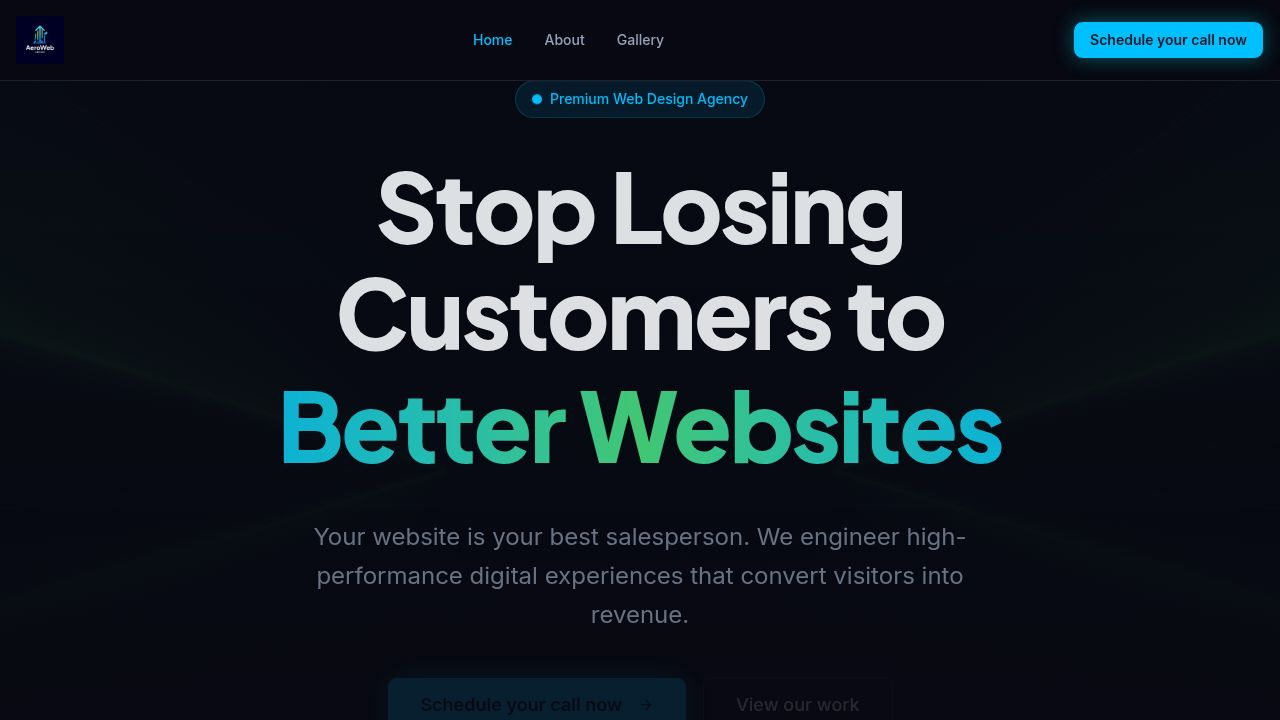
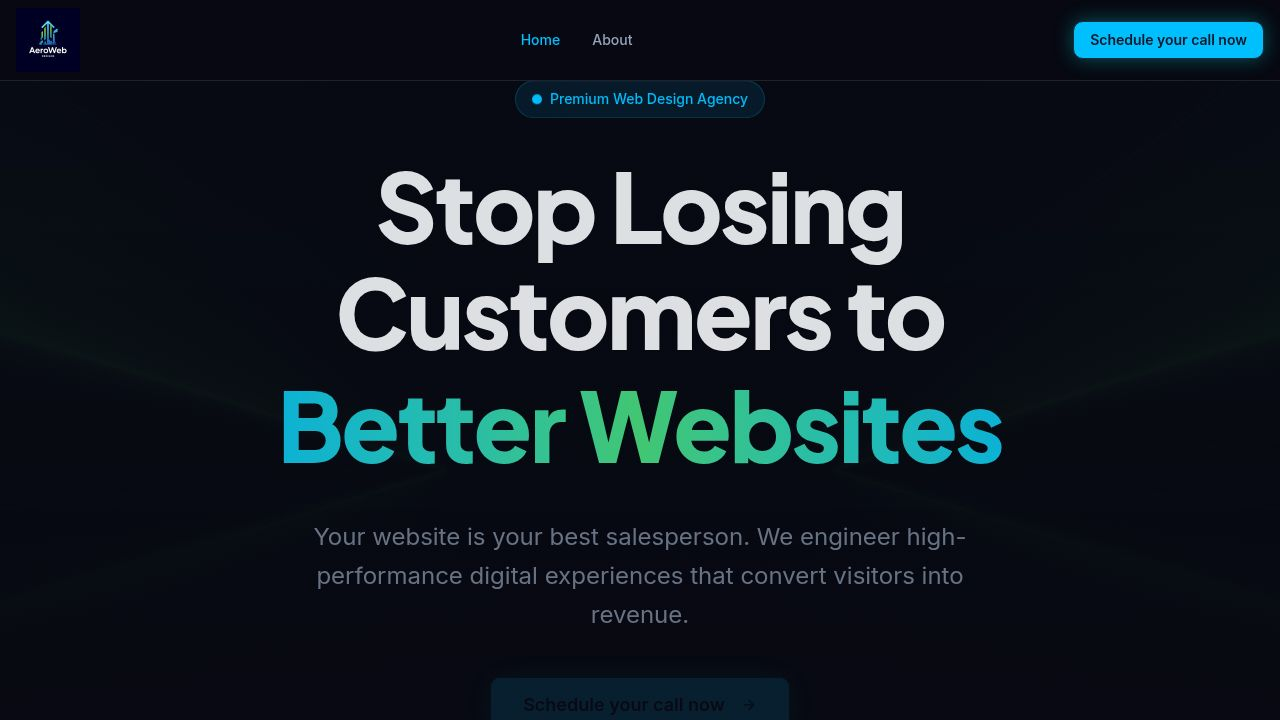
Remove the gallery section and its navigation links
Remove the '/gallery' route, the 'Gallery' page component, and the 'Gallery' link from the Navbar and Home page.

Replit-Commit-Author: Agent
Replit-Commit-Session-Id: 6c70f47b-c3b5-494c-aff9-f6e2721a724a
Replit-Commit-Checkpoint-Type: full_checkpoint
Replit-Commit-Event-Id: cd78e233-2b52-48a2-b580-0c35b4460513
Replit-Commit-Screenshot-Url: https://storage.googleapis.com/screenshot-production-us-central1/5e708e74-8882-4a2b-bab4-7d5dadb935b7/6c70f47b-c3b5-494c-aff9-f6e2721a724a/bVOYjoP
Replit-Helium-Checkpoint-Created: true

diff --git a/client/src/pages/Home.tsx b/client/src/pages/Home.tsx
@@ -34,11 +34,6 @@ export default function Home() {
             <Button size="lg" className="h-14 px-8 text-lg bg-primary text-primary-foreground hover:bg-primary/90 shadow-[0_0_30px_rgba(0,255,255,0.4)] transition-all hover:scale-105 w-full sm:w-auto font-semibold">
               Schedule your call now <ArrowRight className="ml-2 h-5 w-5" />
             </Button>
-            <Link href="/gallery">
-              <Button size="lg" variant="outline" className="h-14 px-8 text-lg border-white/20 hover:bg-white/5 w-full sm:w-auto font-medium">
-                View our work
-              </Button>
-            </Link>
           </div>
         </div>
       </section>

diff --git a/client/src/components/layout/Navbar.tsx b/client/src/components/layout/Navbar.tsx
@@ -21,9 +21,6 @@ export function Navbar() {
           <Link href="/about">
             <a className={`transition-colors hover:text-primary ${location === "/about" ? "text-primary" : "text-muted-foreground"}`}>About</a>
           </Link>
-          <Link href="/gallery">
-            <a className={`transition-colors hover:text-primary ${location === "/gallery" ? "text-primary" : "text-muted-foreground"}`}>Gallery</a>
-          </Link>
         </div>
         
         <Button className="hidden md:inline-flex bg-primary text-primary-foreground hover:bg-primary/90 font-semibold shadow-[0_0_20px_rgba(0,255,255,0.3)] hover:scale-105 transition-all">

diff --git a/client/src/App.tsx b/client/src/App.tsx
@@ -6,7 +6,6 @@ import { TooltipProvider } from "@/components/ui/tooltip";
 import NotFound from "@/pages/not-found";
 import Home from "@/pages/Home";
 import About from "@/pages/About";
-import Gallery from "@/pages/Gallery";
 import { Navbar } from "@/components/layout/Navbar";
 import { Footer } from "@/components/layout/Footer";
 
@@ -15,7 +14,6 @@ function Router() {
     <Switch>
       <Route path="/" component={Home}/>
       <Route path="/about" component={About}/>
-      <Route path="/gallery" component={Gallery}/>
       <Route component={NotFound} />
     </Switch>
   );
